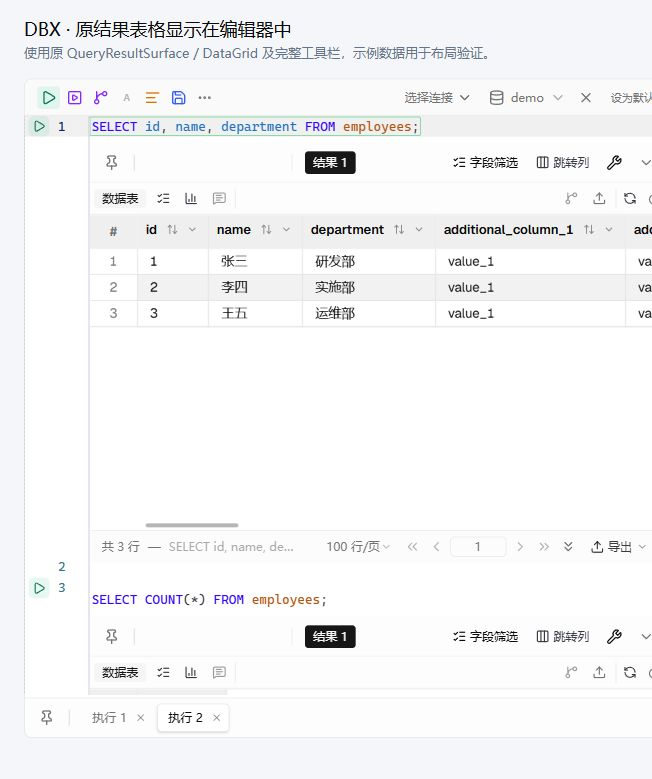
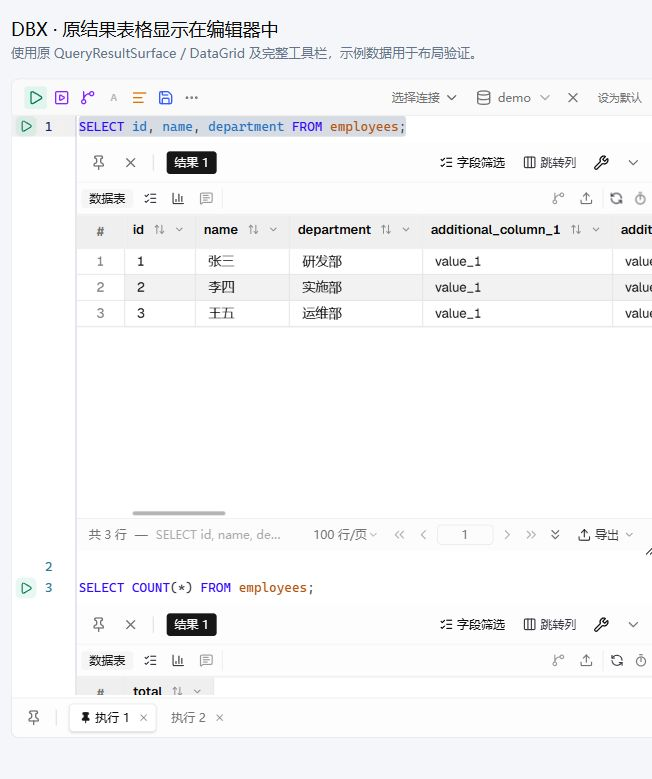
fix(editor): align and independently dismiss inline result grids

diff --git a/apps/desktop/src/lib/editor/inlineQueryResults.ts b/apps/desktop/src/lib/editor/inlineQueryResults.ts
@@ -6,6 +6,8 @@ export interface InlineQueryResult {
   from: number;
   to: number;
   result: QueryResult;
+  /** Dismiss the host while retaining its mapped SQL anchor and Run history. */
+  hidden?: boolean;
 }
 export const setInlineQueryResults = StateEffect.define<InlineQueryResult[]>();
 /** Only attach a result when its recorded source still matches this document. */
@@ -35,6 +37,9 @@ class ResultWidget extends WidgetType {
   eq(other: ResultWidget): boolean {
     return this.result.result === other.result.result && this.lifecycle === other.lifecycle;
   }
+  get estimatedHeight() {
+    return 420;
+  }
   toDOM(view: EditorView): HTMLElement {
     const host = document.createElement("div");
     host.className = "cm-inline-query-result";
@@ -45,10 +50,14 @@ class ResultWidget extends WidgetType {
       const gutter = view.scrollDOM.querySelector(".cm-gutters")?.getBoundingClientRect().width ?? 0;
       const width = view.scrollDOM.clientWidth - gutter - 8;
       if (width > 0) host.style.width = `${width}px`;
+      // Resizing a grid must also remeasure CodeMirror's block heights and
+      // gutters, including when the grid returns from outside the viewport.
+      if (host.isConnected) view.requestMeasure();
     };
     resize();
     this.resizeObserver = new ResizeObserver(resize);
     this.resizeObserver.observe(view.scrollDOM);
+    this.resizeObserver.observe(host);
     this.lifecycle.mount(host, this.result.result);
     return host;
   }
@@ -64,7 +73,7 @@ class ResultWidget extends WidgetType {
 const hostLifecycle = Facet.define<InlineResultHostLifecycle, InlineResultHostLifecycle>({ combine: (values) => values[0]! });
 function decorations(state: EditorState, results: InlineQueryResult[]): DecorationSet {
   return Decoration.set(
-    results.map((result) => Decoration.widget({ widget: new ResultWidget(result, state.facet(hostLifecycle)), block: true, side: 1 }).range(state.doc.lineAt(result.to).to)),
+    results.filter((result) => !result.hidden).map((result) => Decoration.widget({ widget: new ResultWidget(result, state.facet(hostLifecycle)), block: true, side: 1 }).range(state.doc.lineAt(result.to).to)),
     true,
   );
 }
@@ -83,7 +92,10 @@ const field = StateField.define<{ results: InlineQueryResult[]; decorations: Dec
     }
     for (const effect of transaction.effects) {
       if (effect.is(setInlineQueryResults)) {
-        results = effect.value.map((incoming) => results.find((existing) => existing.result === incoming.result) ?? incoming);
+        results = effect.value.map((incoming) => {
+          const existing = results.find((item) => item.result === incoming.result);
+          return existing ? { ...existing, hidden: incoming.hidden } : incoming;
+        });
       }
     }
     if (results === value.results && !transaction.docChanged) return value;
@@ -100,11 +112,20 @@ export function inlineQueryResultsExtension(lifecycle: InlineResultHostLifecycle
     field,
     EditorView.updateListener.of((update) => {
       if (update.docChanged || update.transactions.some((transaction) => transaction.effects.some((effect) => effect.is(setInlineQueryResults)))) {
-        lifecycle.sync?.(currentInlineQueryResults(update.view).map((item) => item.result));
+        lifecycle.sync?.(
+          currentInlineQueryResults(update.view)
+            .filter((item) => !item.hidden)
+            .map((item) => item.result),
+        );
       }
     }),
     EditorView.baseTheme({
-      ".cm-inline-query-result": { height: "420px", minHeight: "180px", minWidth: "0", maxWidth: "100%", boxSizing: "border-box", margin: "6px 0", overflow: "hidden", resize: "vertical", whiteSpace: "normal", fontFamily: "system-ui", fontSize: "12px" },
+      // CodeMirror measures a block's border box, not its margins. Internal
+      // spacing prevents cumulative line-number drift after each result.
+      ".cm-inline-query-result": { height: "420px", minHeight: "180px", minWidth: "0", maxWidth: "100%", boxSizing: "border-box", padding: "6px 0", overflow: "hidden", resize: "vertical", whiteSpace: "normal", fontFamily: "system-ui", fontSize: "12px", userSelect: "none", WebkitUserSelect: "none" },
+      // The surrounding SQL selection must not paint grid/tool/footer text.
+      // Keep native selection available in the grid's actual input editors.
+      ".cm-inline-query-result input, .cm-inline-query-result textarea, .cm-inline-query-result [contenteditable=true]": { userSelect: "text", WebkitUserSelect: "text" },
     }),
   ];
 }

diff --git a/apps/desktop/src/components/layout/__tests__/SqlEditorWorkspace.mount.spec.ts b/apps/desktop/src/components/layout/__tests__/SqlEditorWorkspace.mount.spec.ts
@@ -89,7 +89,7 @@ vi.mock("@/components/layout/EditorToolbar.vue", () => ({
 vi.mock("@/components/layout/QueryResultSurface.vue", () => ({
   default: {
     name: "QueryResultSurfaceStub",
-    props: ["activeTab", "historyOnly"],
+    props: ["activeTab", "historyOnly", "closeInlineResult"],
     emits: ["previewStatement", "focusStatement"],
     methods: {
       handleModRTarget(target: Element) {
@@ -101,7 +101,7 @@ vi.mock("@/components/layout/QueryResultSurface.vue", () => ({
         return true;
       },
     },
-    template: `<div :data-inline-result-history="historyOnly ? '' : undefined" :data-test="historyOnly ? 'result-history' : 'result-surface'" :data-result-value="activeTab?.result?.rows[0]?.[0]" :data-executing="activeTab?.isExecuting" :data-live-messages="activeTab?.liveQueryMessages?.length ?? 0" :data-sort-column="activeTab?.resultSortColumn" :data-grid-revision="activeTab?.resultGridRevision">{{ activeTab?.id }}<button data-test="emit-preview" @click="$emit('previewStatement', 'tab-a', { from: 0, to: 8 })">preview</button><button data-test="emit-focus" @click="$emit('focusStatement', 'tab-a', { from: 0, to: 8 })">focus</button></div>`,
+    template: `<div :data-inline-result-history="historyOnly ? '' : undefined" :data-test="historyOnly ? 'result-history' : 'result-surface'" :data-result-value="activeTab?.result?.rows[0]?.[0]" :data-executing="activeTab?.isExecuting" :data-live-messages="activeTab?.liveQueryMessages?.length ?? 0" :data-sort-column="activeTab?.resultSortColumn" :data-grid-revision="activeTab?.resultGridRevision">{{ activeTab?.id }}<button v-if="closeInlineResult" data-test="close-inline" @click="closeInlineResult()">close</button><button data-test="emit-preview" @click="$emit('previewStatement', 'tab-a', { from: 0, to: 8 })">preview</button><button data-test="emit-focus" @click="$emit('focusStatement', 'tab-a', { from: 0, to: 8 })">focus</button></div>`,
   },
 }));
 
@@ -285,6 +285,45 @@ describe("SqlEditorWorkspace mount contract", () => {
       inlinePortals[0]!.sync("offscreen", []);
       await nextTick();
       expect(workspace.host.querySelector("[data-shared-result-surface]")).not.toBeNull();
+    } finally {
+      workspace.cleanup();
+    }
+  });
+  it("dismisses individual grids without deleting sibling results, Run history or opening a bottom grid", async () => {
+    const queryTab = tab("dismiss");
+    queryTab.sql = "SELECT 1;\nSELECT 2;";
+    const first = { ...queryTab.result!, rows: [[1]], sourceStatement: "SELECT 1;", sourceTo: 9 };
+    const second = { ...first, rows: [[2]], sourceStatement: "SELECT 2;", sourceFrom: 10, sourceTo: 19 };
+    queryTab.resultRuns = [{ id: "batch", title: "", sequence: 1, createdAt: 1, sql: queryTab.sql, result: second, results: [first, second], activeResultIndex: 1, inlineRetained: true }];
+    queryTab.result = second;
+    queryTab.results = [first, second];
+    queryTab.activeResultRunId = "batch";
+    queryTab.activeResultIndex = 1;
+    const workspace = mountOutputWorkspace([queryTab], true);
+    try {
+      const tab = workspace.store.tabs[0]!;
+      const portal = inlinePortals[0]!;
+      const firstHost = document.createElement("div");
+      const secondHost = document.createElement("div");
+      workspace.host.append(firstHost, secondHost);
+      portal.mount(tab.id, tab.results![0]!, firstHost);
+      portal.mount(tab.id, tab.results![1]!, secondHost);
+      await nextTick();
+      firstHost.querySelector<HTMLButtonElement>('[data-test="close-inline"]')!.click();
+      await nextTick();
+      expect(firstHost.children).toHaveLength(0);
+      expect(secondHost.querySelector('[data-test="result-surface"]')).not.toBeNull();
+      secondHost.querySelector<HTMLButtonElement>('[data-test="close-inline"]')!.click();
+      portal.sync(tab.id, []);
+      await nextTick();
+      expect(workspace.host.querySelectorAll('[data-test="result-surface"]')).toHaveLength(0);
+      expect(workspace.host.querySelector('[data-test="result-history"]')).not.toBeNull();
+      expect(tab.resultRuns).toHaveLength(1);
+      expect(tab.results?.map((result) => result.rows)).toEqual([[[1]], [[2]]]);
+      portal.reopen(tab.id, tab.results![0]!);
+      await nextTick();
+      expect(firstHost.querySelector('[data-test="result-surface"]')).not.toBeNull();
+      expect(secondHost.children).toHaveLength(0);
     } finally {
       workspace.cleanup();
     }

diff --git a/apps/desktop/src/components/layout/__tests__/ContentArea.resultRuns.spec.ts b/apps/desktop/src/components/layout/__tests__/ContentArea.resultRuns.spec.ts
@@ -12,6 +12,7 @@ vi.mock("@/components/grid/DataGrid.vue", () => ({ default: { render: () => h("d
 import ContentArea from "../ContentArea.vue";
 import { useConnectionStore } from "@/stores/connectionStore";
 import { useQueryStore } from "@/stores/queryStore";
+import { createInlineQueryResultPortal, INLINE_QUERY_RESULT_PORTAL, type InlineQueryResultPortal } from "@/lib/editor/inlineQueryResultPortal";
 
 const cleanups: Array<() => void> = [];
 afterEach(() => {
@@ -20,7 +21,7 @@ afterEach(() => {
   window.localStorage?.clear();
 });
 
-async function mountContentAreaWithRuns(options: { results: QueryResult[]; resultRuns?: NonNullable<QueryTab["resultRuns"]>; activeResultRunId?: string }) {
+async function mountContentAreaWithRuns(options: { results: QueryResult[]; resultRuns?: NonNullable<QueryTab["resultRuns"]>; activeResultRunId?: string; inlineResult?: boolean; historyOnly?: boolean; closeInlineResult?: () => void; portal?: InlineQueryResultPortal }) {
   const pinia = createPinia();
   setActivePinia(pinia);
   const connection = { id: "mysql-1", name: "MySQL", db_type: "mysql" as const, host: "localhost", port: 3306, username: "root", password: "" };
@@ -57,6 +58,9 @@ async function mountContentAreaWithRuns(options: { results: QueryResult[]; resul
           selectedSql: "",
           cursorPos: 0,
           resultOnly: true,
+          inlineResult: options.inlineResult,
+          historyOnly: options.historyOnly,
+          closeInlineResult: options.closeInlineResult,
           blockDangerousRedisCommands: false,
           "onUpdate:activeOutputView": (_tabId: string, view: string) => {
             state.view = view as typeof state.view;
@@ -65,6 +69,7 @@ async function mountContentAreaWithRuns(options: { results: QueryResult[]; resul
     }),
   );
   app.use(pinia);
+  if (options.portal) app.provide(INLINE_QUERY_RESULT_PORTAL, options.portal);
   app.use(
     createI18n({
       legacy: false,
@@ -105,6 +110,43 @@ describe("ContentArea result run tabs layout and middle-click close", () => {
     affected_rows: 1,
     execution_time_ms: 3,
   };
+  it("closes an inline result with a Run using its local callback and keeps its label at the start", async () => {
+    const close = vi.fn();
+    const { host } = await mountContentAreaWithRuns({
+      results: [singleResult],
+      resultRuns: [{ id: "run-1", title: "Run 1", sequence: 1, sql: "SELECT 1", createdAt: 1, result: singleResult, results: [singleResult] }],
+      activeResultRunId: "run-1",
+      inlineResult: true,
+      closeInlineResult: close,
+    });
+    const store = useQueryStore();
+    const deleteResult = vi.spyOn(store, "closeQueryResult");
+    const navigator = host.querySelector("[data-result-set-tabs-region]")!;
+    expect(navigator.previousElementSibling?.classList.contains("flex-1")).toBe(false);
+    host.querySelector<HTMLButtonElement>('[aria-label="tabs.closeResult"]')!.click();
+    await nextTick();
+    expect(close).toHaveBeenCalledTimes(1);
+    host.querySelector<HTMLButtonElement>('[aria-label="editor.hideResultsPane"]')!.click();
+    await nextTick();
+    expect(close).toHaveBeenCalledTimes(2);
+    expect(deleteResult).not.toHaveBeenCalled();
+  });
+  it("reopens a dismissed result when its Run is explicitly selected in compact history", async () => {
+    const portal = createInlineQueryResultPortal();
+    const { host, tab } = await mountContentAreaWithRuns({
+      results: [singleResult],
+      resultRuns: [{ id: "run-1", title: "Run 1", sequence: 1, sql: "SELECT 1", createdAt: 1, result: singleResult, results: [singleResult] }],
+      activeResultRunId: "run-1",
+      historyOnly: true,
+      portal,
+    });
+    portal.dismiss(tab.id, tab.result!);
+    host.querySelector<HTMLButtonElement>("[data-result-run-tab]")!.click();
+    await nextTick();
+    await nextTick();
+    await vi.waitFor(() => expect(portal.isDismissed(tab.id, tab.result!)).toBe(false));
+    expect(tab.result?.rows).toEqual([[1]]);
+  });
 
   it("hides ResultSetNavigator when resultRuns exist and active run has a single result set", async () => {
     const { host } = await mountContentAreaWithRuns({

diff --git a/apps/desktop/src/components/layout/ContentArea.vue b/apps/desktop/src/components/layout/ContentArea.vue
@@ -273,6 +273,7 @@ const props = defineProps<
     /** Reuse the original Run controls without mounting a duplicate grid. */
     historyOnly?: boolean;
     activateResult?: () => void;
+    closeInlineResult?: () => void;
     /** Whether the query editor should request focus on mount. */
     autoFocus?: boolean;
   }
@@ -1013,7 +1014,9 @@ function toggleResultsPane(): boolean {
  * keep the local collapse behavior.
  */
 function handleHideResultsPane() {
-  if (props.resultOnly) {
+  if (props.inlineResult) {
+    props.closeInlineResult?.();
+  } else if (props.resultOnly) {
     emit("toggleResultsPane");
   } else {
     resultsPaneOpen.value = false;
@@ -1659,6 +1662,7 @@ async function selectResultRun(runId: string) {
     toast(t("tabs.missingResultRun"), 4000);
     return false;
   }
+  if (props.historyOnly && props.activeTab.result) inlineResultPortal?.reopen(props.activeTab.id, props.activeTab.result);
   emit("update:activeOutputView", props.activeTab.id, "result");
   return true;
 }
@@ -2102,7 +2106,15 @@ defineExpose({
               >
                 <Pin class="h-3.5 w-3.5" :class="{ 'fill-current': resultAutoSave }" />
               </Button>
-              <Button v-if="canCloseQueryResult" variant="ghost" size="icon" class="h-6 w-7 shrink-0 text-muted-foreground hover:bg-accent hover:text-foreground" :title="t('tabs.closeResult')" :aria-label="t('tabs.closeResult')" @click="closeCurrentQueryResult">
+              <Button
+                v-if="inlineResult || canCloseQueryResult"
+                variant="ghost"
+                size="icon"
+                class="h-6 w-7 shrink-0 text-muted-foreground hover:bg-accent hover:text-foreground"
+                :title="t('tabs.closeResult')"
+                :aria-label="t('tabs.closeResult')"
+                @click="inlineResult ? closeInlineResult?.() : closeCurrentQueryResult()"
+              >
                 <X class="h-3.5 w-3.5" />
               </Button>
               <template v-if="resultRuns.length > 0 || visibleResultItems.length > 0">
@@ -2179,7 +2191,7 @@ defineExpose({
                     </DropdownMenuContent>
                   </DropdownMenu>
                 </div>
-                <div v-else-if="resultRuns.length > 0" class="min-w-0 flex-1" />
+                <div v-else-if="!inlineResult && resultRuns.length > 0" class="min-w-0 flex-1" />
                 <span v-if="!historyOnly && !inlineResult && resultRuns.length > 0 && visibleResultItems.length > 1" class="mx-1 h-4 w-px shrink-0 bg-border" />
                 <ResultSetNavigator
                   v-if="!historyOnly && (inlineResult || resultRuns.length === 0 ? visibleResultItems.length > 0 : visibleResultItems.length > 1)"

diff --git a/apps/desktop/src/lib/editor/inlineQueryResults.spec.ts b/apps/desktop/src/lib/editor/inlineQueryResults.spec.ts
@@ -50,6 +50,34 @@ describe("inline query result hosts", () => {
     expect(editor.dom.querySelector(".cm-inline-query-result")).toBeNull();
     expect(unmountHost).toHaveBeenCalledTimes(1);
   });
+  it("closes only the requested host while preserving its anchor through edits", () => {
+    const { editor } = mount();
+    const first = result();
+    const second = result({ sourceFrom: 10, sourceTo: 19, sourceStatement: "select 2;" });
+    editor.dispatch({ effects: setInlineQueryResults.of(inlineQueryResultSnapshots(sql, [first, second])) });
+    const secondHost = editor.dom.querySelectorAll(".cm-inline-query-result")[1];
+    const snapshots = currentInlineQueryResults(editor);
+    editor.dispatch({ effects: setInlineQueryResults.of(snapshots.map((item) => ({ ...item, hidden: item.result === first }))) });
+    expect([...editor.dom.querySelectorAll(".cm-inline-query-result")]).toEqual([secondHost]);
+    editor.dispatch({ changes: { from: 0, insert: "-- prefix\n" } });
+    expect(currentInlineQueryResults(editor)[0]).toMatchObject({ from: 0, to: 19, hidden: true, result: first });
+    expect(second.rows).toEqual([[1]]);
+    editor.dispatch({ effects: setInlineQueryResults.of(currentInlineQueryResults(editor).map((item) => ({ ...item, hidden: false }))) });
+    expect(editor.dom.querySelectorAll(".cm-inline-query-result")).toHaveLength(2);
+  });
+  it("scopes dismissal to one tab and one result identity, and allows history to reopen it", () => {
+    const portal = createInlineQueryResultPortal();
+    const first = result();
+    const second = result();
+    portal.dismiss("tab-a", first);
+    expect(portal.isDismissed("tab-a", first)).toBe(true);
+    expect(portal.isDismissed("tab-b", first)).toBe(false);
+    expect(portal.isDismissed("tab-a", second)).toBe(false);
+    portal.dismiss("tab-b", first);
+    portal.reopen("tab-a", first);
+    expect(portal.isDismissed("tab-a", first)).toBe(false);
+    expect(portal.isDismissed("tab-b", first)).toBe(true);
+  });
   it("rejects stale positions and failed results", () => {
     expect(inlineQueryResultSnapshots(sql, [result({ sourceStatement: "select 2;" }), result({ sourceFrom: undefined }), result({ execution_error: true })])).toEqual([]);
   });

diff --git a/apps/desktop/src/components/editor/QueryEditor.vue b/apps/desktop/src/components/editor/QueryEditor.vue
@@ -2393,14 +2393,15 @@ watch(
 
 let inlineResultsTabId: string | undefined;
 watch(
-  () => [view.value, props.tabId, props.inlineQueryResults, props.inlineQueryResults?.map((result) => result.rows.length).join(",")],
+  () => [view.value, props.tabId, props.inlineQueryResults, props.inlineQueryResults?.map((result) => `${result.rows.length}:${inlineResultPortal?.isDismissed(props.tabId ?? "", result)}`).join(",")],
   () => {
     const currentView = view.value;
     if (!currentView) return;
     const previous = inlineResultsTabId === props.tabId ? currentInlineQueryResults(currentView) : (inlineResultPortal?.anchors.get(props.tabId ?? "") ?? []);
     if (inlineResultsTabId !== props.tabId) currentView.dispatch({ effects: setInlineQueryResults.of([]) });
     inlineResultsTabId = props.tabId;
-    currentView.dispatch({ effects: setInlineQueryResults.of(inlineQueryResultSnapshots(currentView.state.doc.toString(), inlineResultPortal ? (props.inlineQueryResults ?? []) : [], previous)) });
+    const snapshots = inlineQueryResultSnapshots(currentView.state.doc.toString(), inlineResultPortal ? (props.inlineQueryResults ?? []) : [], previous).map((item) => ({ ...item, hidden: inlineResultPortal?.isDismissed(props.tabId ?? "", item.result) }));
+    currentView.dispatch({ effects: setInlineQueryResults.of(snapshots) });
   },
   { flush: "post" },
 );

diff --git a/apps/desktop/src/lib/editor/inlineQueryResultPortal.ts b/apps/desktop/src/lib/editor/inlineQueryResultPortal.ts
@@ -6,11 +6,26 @@ export const INLINE_QUERY_RESULT_PORTAL = "dbx-inline-query-result-portal";
 export function createInlineQueryResultPortal() {
   const targets = shallowReactive(new Map<string, Map<QueryResult, HTMLElement>>());
   const available = shallowReactive(new Map<string, QueryResult[]>());
+  // Weak ownership: closing one grid neither deletes a Run nor retains its
+  // payload forever. A newly executed result has a new identity and reopens.
+  const dismissed = shallowReactive(new WeakMap<QueryResult, Set<string>>());
   return {
     targets,
     available,
     anchors: new Map<string, InlineQueryResult[]>(),
     states: new WeakMap<QueryResult, Partial<QueryTab>>(),
+    isDismissed(tabId: string, result: QueryResult) {
+      return dismissed.get(result)?.has(tabId) ?? false;
+    },
+    dismiss(tabId: string, result: QueryResult) {
+      dismissed.set(result, new Set([...(dismissed.get(result) ?? []), tabId]));
+    },
+    reopen(tabId: string, result: QueryResult) {
+      const tabs = new Set(dismissed.get(result));
+      tabs.delete(tabId);
+      if (tabs.size) dismissed.set(result, tabs);
+      else dismissed.delete(result);
+    },
     sync(tabId: string, results: QueryResult[]) {
       available.set(tabId, results);
     },

diff --git a/apps/desktop/src/components/layout/SqlEditorWorkspace.vue b/apps/desktop/src/components/layout/SqlEditorWorkspace.vue
@@ -154,6 +154,7 @@ const inlineEntries = computed(() => {
 });
 const inlineResults = computed(() => {
   return inlineEntries.value.flatMap((entry) => {
+    if (activeTab.value && inlineResultPortal.isDismissed(activeTab.value.id, entry.result)) return [];
     const target = inlineResultTargets.value?.get(entry.result);
     return target ? [{ ...entry, target, key: `${entry.run?.id ?? "current"}:${entry.index}` }] : [];
   });
@@ -186,7 +187,7 @@ const showResultPane = computed({
 const inlineHistoryOnly = computed(() => {
   const tab = activeTab.value;
   const available = tab ? (inlineResultPortal.available.get(tab.id) ?? inlineEntries.value.map((entry) => entry.result)) : [];
-  return settingsStore.editorSettings.inlineQueryResults && props.activeOutputView === "result" && !!tab?.result && available.includes(tab.result);
+  return settingsStore.editorSettings.inlineQueryResults && props.activeOutputView === "result" && !!tab?.result && (available.includes(tab.result) || inlineResultPortal.isDismissed(tab.id, tab.result));
 });
 const isResultPaneVisible = computed(() => hasSharedOutput.value && showResultPane.value && !inlineHistoryOnly.value);
 // Keep the pane mounted, but apply its target size immediately so available

diff --git a/apps/desktop/src/components/layout/QueryResultSurface.vue b/apps/desktop/src/components/layout/QueryResultSurface.vue
@@ -6,7 +6,7 @@ import type { ContentAreaSurfaceEmits, ContentAreaSurfaceProps, QueryResultSurfa
 
 defineOptions({ inheritAttrs: false });
 
-const props = defineProps<ContentAreaSurfaceProps & { inlineResult?: boolean; historyOnly?: boolean; activateResult?: () => void }>();
+const props = defineProps<ContentAreaSurfaceProps & { inlineResult?: boolean; historyOnly?: boolean; activateResult?: () => void; closeInlineResult?: () => void }>();
 const emit = defineEmits<ContentAreaSurfaceEmits>();
 
 const attrs = useAttrs();
@@ -39,6 +39,6 @@ defineExpose<QueryResultSurfaceHandle>({
 
 <template>
   <div class="min-h-0 overflow-hidden" :class="resultClass" :data-inline-result-history="historyOnly ? '' : undefined">
-    <ContentArea ref="contentAreaRef" v-bind="bindings" :inline-result="inlineResult" :history-only="historyOnly" :activate-result="activateResult" result-only class="h-full min-w-0" />
+    <ContentArea ref="contentAreaRef" v-bind="bindings" :inline-result="inlineResult" :history-only="historyOnly" :activate-result="activateResult" :close-inline-result="closeInlineResult" result-only class="h-full min-w-0" />
   </div>
 </template>

diff --git a/apps/desktop/src/components/layout/InlineQueryResultSurface.vue b/apps/desktop/src/components/layout/InlineQueryResultSurface.vue
@@ -83,6 +83,7 @@ const bindings = computed(() => ({
   ...props,
   ...scopedForwarders,
   activateResult: activate,
+  closeInlineResult: () => portal?.dismiss(props.activeTab.id, props.result),
   activeTab: displayedTab.value,
   activeOutputView: outputView.value,
   "onUpdate:activeOutputView": (_tabId: string, view: TabOutputView) => {
